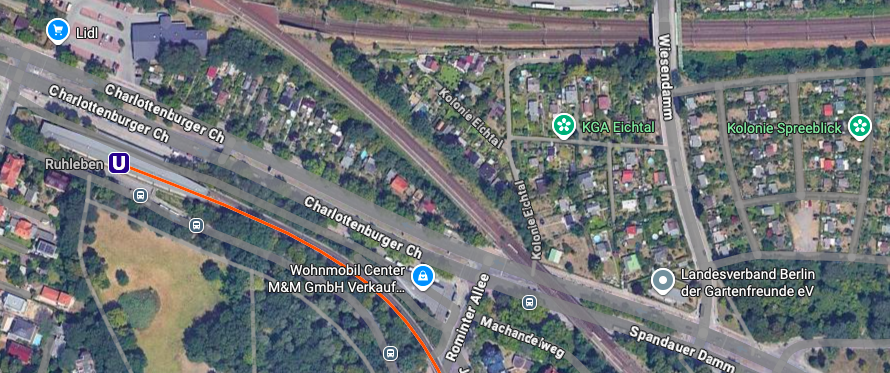
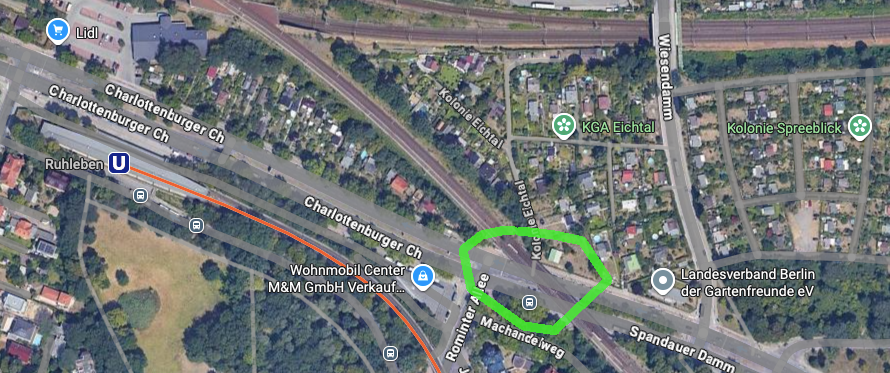
4 de enero

diff --git a/_posts/2026-01-04-gustav_wunderwald.md b/_posts/2026-01-04-gustav_wunderwald.md
@@ -10,14 +10,18 @@ La urgencia de mi anonimato es tanta que solo llevo cuatro días de blog y ya sa
 
 ![]({{ site.baseurl }}/assets/posts/wunderwald.jpg)
 
-En Bluesky lo comenté muy rápidamente, aludiendo al tranvía 55: evidentemente me lo afearon y me tuve que documentar un poco más (la visita al oculista la llevo desde entonces postergando). Pero tuve suerte: tanto el tranvía 54 representado como el 55 compartían recorrido y pasaban por aquí cerca, siendo el 55 el último que circuló por Berlín Oeste. [Este texto del Tagesspiegel](https://www.tagesspiegel.de/berlin/tschus-55-zum-abschied-der-letzten-strassenbahn-3875077.html) lo recuerda, y [este texto de un apasionado de los transportes](https://www.berlin-straba.de/report/1967-10-02_abschied-strab-bvg_west.html) da información muy puntual y pormenorizada. Qué te juegas Maripili a que el link del Tagesspiegel se rompe antes. He encontrado hasta [un vídeo sobre la celebración de los 50 años del desmantelamiento del 55](https://www.youtube.com/watch?v=SP9QNOagJOo), en un evento que se hizo aquí al lado. Los apasionados de las cosas son, o somos, el pasado, el presente y, cuando casi todo colapse, el futuro.
+En Bluesky lo comenté muy rápidamente, aludiendo al trayecto del tranvía 55 y blablablá: evidentemente me afearon la miopía y me tuve que documentar un poco más (la visita al oculista la llevo desde entonces postergando). Pero tuve suerte: tanto el tranvía 54 representado como el 55 compartían recorrido y pasaban por aquí cerca, siendo el 55 el último que circuló por Berlín Oeste. [Este texto del Tagesspiegel](https://www.tagesspiegel.de/berlin/tschus-55-zum-abschied-der-letzten-strassenbahn-3875077.html) lo recuerda, y [este texto de un apasionado de los transportes](https://www.berlin-straba.de/report/1967-10-02_abschied-strab-bvg_west.html) da información muy puntual y pormenorizada. Qué te juegas Maripili a que el link del Tagesspiegel se rompe antes. He encontrado hasta [un vídeo sobre la celebración de los 50 años del desmantelamiento del 55](https://www.youtube.com/watch?v=SP9QNOagJOo). Los apasionados de las cosas son, o somos, el pasado, el presente y, cuando casi todo colapse, el futuro.
 
-Volviendo al lienzo de Wunderwald, quedaría perfecto en la pared de enfrente de donde escribo esto, encima del sofá, junto a las ventanas, que son enormes y miran al Havel y detrás a Haselhorst. Ganaría una ventana. El arte como continuación del paisaje. Pero una ventana a la historia. Por ahora lo que hay sobre el sofá es una lámina de IKEA de 100x140 con una imagen de Londres en blanco y negro. Tan asquerosamente anónima que su anterior propietaria la regaló sin miramientos. Pero ay, si consigo imprimirme bien el Wunderwald y montarlo encima! De hecho el del tranvía sería el único acento amarillo de la casa, construyendo aún más relato. El juego de formas y volúmenes y colores de esta casa de esta casa daría para mucha reflexión...
+Volviendo al lienzo de Wunderwald, quedaría perfecto en la pared de enfrente de donde escribo esto, encima del sofá, junto a las ventanas, que son enormes y miran al Havel y detrás a Haselhorst. El arte como continuación del paisaje. Ganaría una ventana.: pero una ventana a la historia. Por ahora lo que hay sobre el sofá es una lámina de IKEA de 100x140 con una imagen de Londres en blanco y negro. Tan asquerosamente anónima que su anterior propietaria la regaló sin miramientos. Pero ay, si consigo imprimirme bien el Wunderwald y montarlo encima! De hecho el del tranvía sería el único acento amarillo de la casa, construyendo aún más relato. El juego de formas y volúmenes y colores de esta casa de esta casa daría para mucha reflexión...
 
 ![]({{ site.baseurl }}/assets/posts/london.jpg)
 
-... pero por ir acabando con Wunderwald: Su mirada aporta la misma textura histórica y social de los paseos por Berlín de los flanistas (recuerda en particular el capitulito de Franz Hessel sobre la imprenta, y o el de las diversiones proletarias, tabernas y espectáculos en EL Wedding, no recuerdo bien, tengo que volver a leerlo), o de _Eric y los detectives_ de Kästner, o del mercado de flores en Hallesches Tor que canta Claire Waldorff. Por cierto, el bueno de Raoul Hausmann está de exposición estos meses en la Berlinische Galerie, que no se me pase, ya te contaré. Los lectores de mi otro blog, cuyo cardinal es cero, recordarán que tengo una foto frente a un collage de Hausmann. Que también estará en Facebook. Como no tengo estómago para bajar a hurgar a ninguno de los dos sitios, os pego una de la inauguración que es muy parecida, aunque salen personas con pelo.
+... pero por ir acabando con Wunderwald: Su mirada comparte algo de la textura histórica y social de los paseos por Berlín de los flanistas (recuerda en particular el capitulito de Franz Hessel sobre la imprenta, y o el de las diversiones proletarias, tabernas y espectáculos en EL Wedding, no recuerdo bien, tengo que volver a leerlo), o de _Eric y los detectives_ de Kästner, o del mercado de flores en Hallesches Tor donde vive la Hannelore de [la canción de Claire Waldoff](https://youtu.be/uIYkvm5V7Wk?si=Eu-8vkYnNIs8CfAa). Por cierto, el bueno de Raoul Hausmann está de exposición estos meses en la Berlinische Galerie, que no se me pase, ya te contaré. Los lectores de mi otro blog, ese conjunto vacío, recordarán que tengo una foto frente a un collage de Hausmann. Que también estará en Facebook. Como no tengo estómago para bajar a hurgar a ninguno de los dos sitios, os pego una de la inauguración que es muy parecida, aunque salen personas con pelo.
 
 ![]{{ site.baseurl }}(/assets/posts/hausmann.png)
 
-Prometo también hacer trabajo de campo y buscar el punto desde el que se tomó la imagen. Por el puente del ferrocarril yo diría que, si la ruta del tranvía 54 es la que hace ahora el M45, se tratará de este punto cerca de Ruhleben.
+Prometo también hacer trabajo de campo y buscar el punto desde el que se tomó la imagen. Por el puente del ferrocarril yo diría que, si la ruta del tranvía 54 es la que hace ahora el M45, solo puede tratarse de este punto cerca de Ruhleben:
+
+![]{{ site.baseurl }}(/assets/posts/puente.png)
+
+Aunque si, [como parece](https://www.traditionsbus.de/docs/Traditionsfahrt_M45_2007.pdf), en tiempos de Wunderwald el 54 iba por Gartenfeld, Jungfernheide y llegaba hasta la Nordkapstraße en Prenzlauer Berg, ¡la cosa se complica!

diff --git a/_posts/2026-01-02-los_cuencos_del_zodíaco.md b/_posts/2026-01-02-los_cuencos_del_zodíaco.md
@@ -6,11 +6,11 @@ author: "***"
 categories: objetos
 ---
 
-Cuando empecé a reunir cosas para la nueva casa (me faltaba todo) me dio por la porcelana de la DDR, en particular por un estilo que se llama de muchas maneras: Indisches Blau, Zwiebelmuster... En alemán hay muchas maneras de llamar a las mismas cosas, lo que hace que sea muy difícil localizarlas por ejemplo en Kleinanzeigen (el Wallapop local). [Ya os hablé de esto](https://bsky.app/profile/icanogar.bsky.social/post/3lm7dsjkmcs2f). El caso es que i) ahora tengo una caja llena de vajilla de porcelana preciosa que no uso pero ii) conseguí de casualidad un cuenco decorado con dos motivos del zodíaco y figuras femeninas en actitud erótico-festiva. Se dan un aire a los dibujos de Mingote. Este primer cuenco lo conseguí en Schmargendorf, una barriada noble de Berlín muy mal comunicada, de manos de una chica queer que también ofrecía artículos antifas. Se trataba del que trae Zwillinge (vaya par de gemelas!) y Stier, Tauro; y me costó un euro o dos.
+Cuando empecé a reunir cosas para la nueva casa (me faltaba todo) me dio por la porcelana de la DDR, en particular por un estilo que se llama de muchas maneras: Indisches Blau, Zwiebelmuster... En alemán hay muchas maneras de llamar a las mismas cosas, lo que hace que sea muy difícil localizarlas por ejemplo en Kleinanzeigen (el Wallapop local). [Ya os hablé de esto](https://bsky.app/profile/icanogar.bsky.social/post/3lm7dsjkmcs2f). El caso es que i) ahora tengo una caja llena de vajilla de porcelana preciosa que no uso pero ii) conseguí de casualidad un cuenco decorado con dos motivos del zodíaco y figuras femeninas en actitud erótico-festiva. Se dan un aire a los dibujos de Mingote. Ese primer cuenco lo conseguí en Schmargendorf, una barriada noble de Berlín muy mal comunicada, de manos de una chica queer que también ofrecía artículos antifas. Se trataba del que trae Zwillinge (vaya par de gemelas!) y Stier, Tauro; y me costó un euro o dos.
 
 ![]({{ site.baseurl }}/assets//posts/zod1.png)
 
-Por supuesto, me propuse hacer la colección completa. Ahora tengo todos salvo el que trae Acuario y Piscis, y algunos repetidos. Las fotos son de otro anuncio, que vende la colección completa por 40 euros. Me parece demasiado, y no quiero ahorrarme la adrenalina de completarla por mi cuenta. La búsqueda de imágenes en Google enseña Wassermann / Acuario: no es precioso?
+Por supuesto, me propuse hacer la colección completa. Ahora tengo todos salvo el que trae Acuario y Piscis, y algunos repetidos. La foto es de alguien que vende la colección completa por 40 euros. Me parece demasiado, y no quiero ahorrarme la adrenalina de completarla por mi cuenta. La búsqueda de imágenes en Google enseña Wassermann / Acuario: no es precioso?
 
 ![]({{ site.baseurl }}/assets/posts/wassermann.jpg)
 
